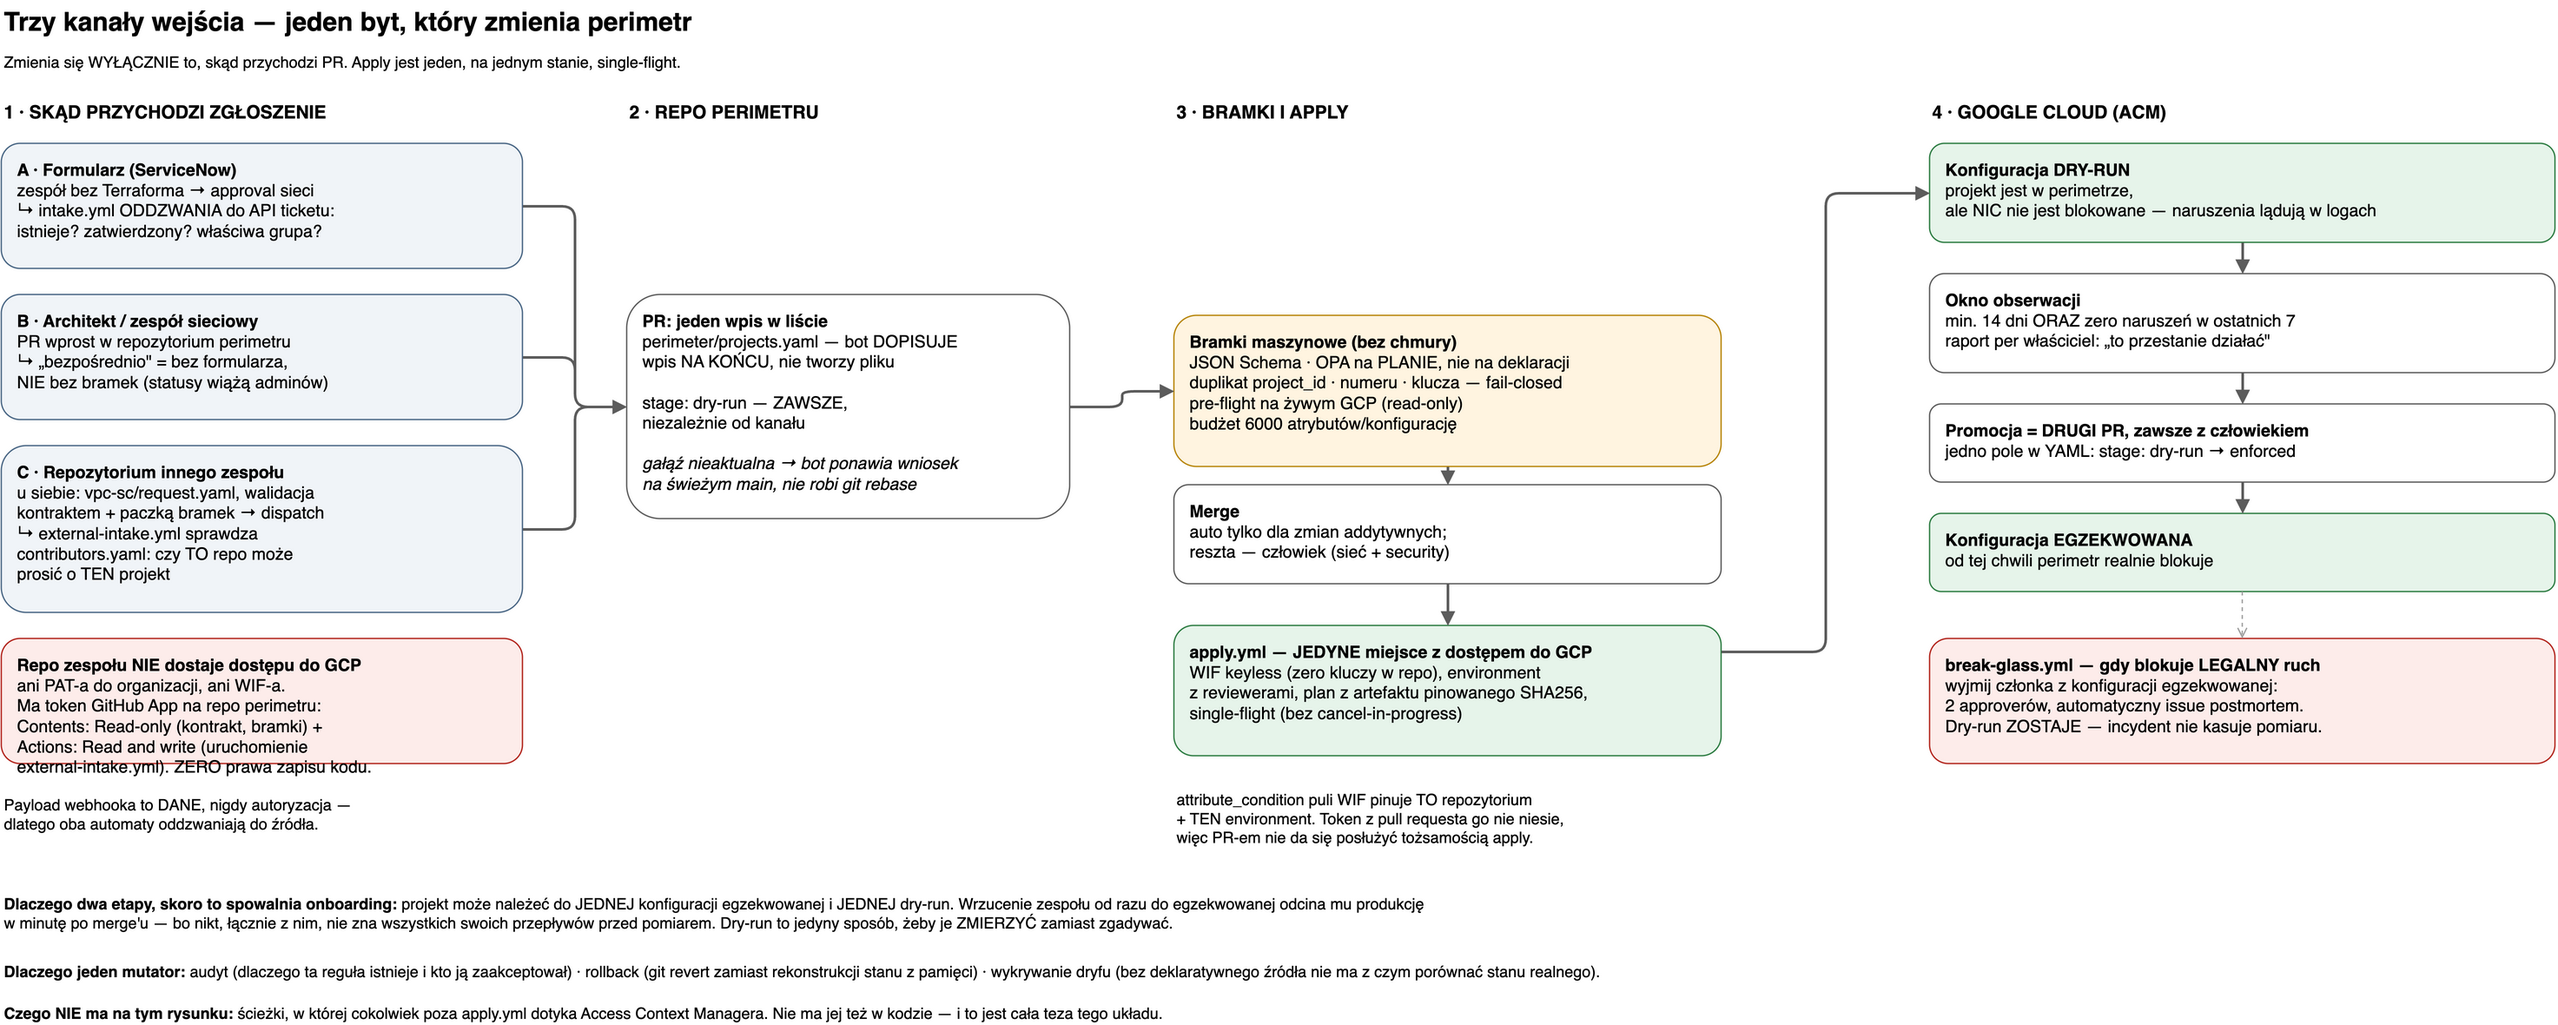
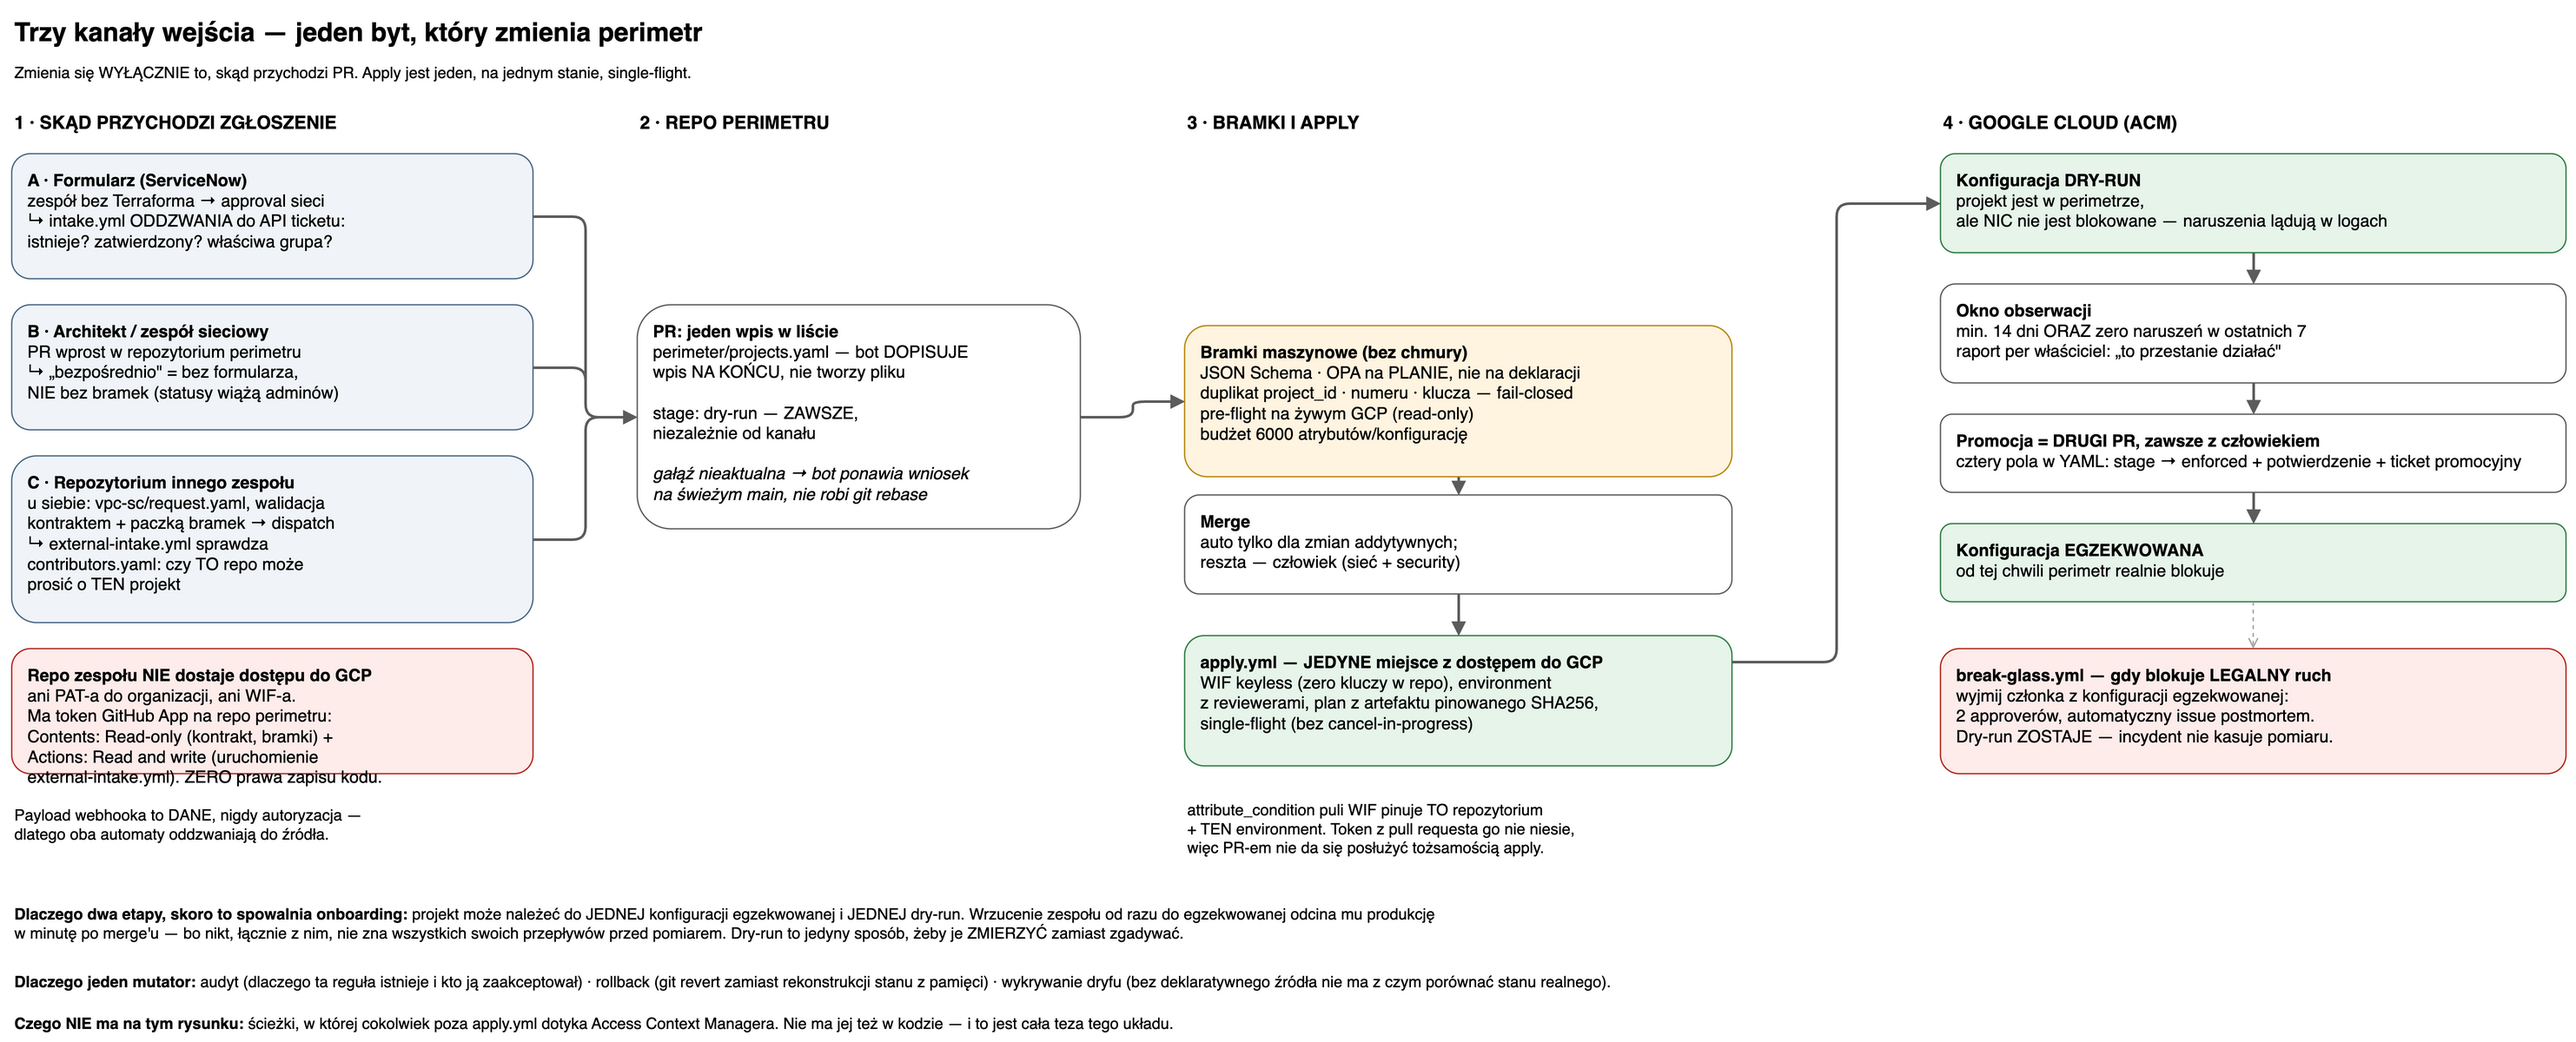
docs(promocja): dwa ostatnie miejsca, w których promocja to nadal „jedno pole"
DEC-58 poprawiło §A krok 3, ale to samo zdanie stało jeszcze w dwóch miejscach —
i oba są tam, gdzie czytelnik trafia PIERWSZY, zanim dojdzie do procedury:

* §„Czego NIE robić: `perimeters dry-run enforce`" — zdanie kontrastujące naszą
  promocję z komendą Google mówiło „jedno pole `stage` w jednym pliku". Kontrast
  zostaje (per członek kontra cały perimetr naraz), liczba pól przestaje kłamać;
* diagram D6 („najprostszy obraz całości") — kafelek „Promocja = DRUGI PR"
  niósł „jedno pole w YAML: stage: dry-run → enforced".

Znalezione skanem `grep "dwa pola\|jedno pole"` po całym drzewie docs/ i AGENTS.md
PO scaleniu DEC-58 — bo poprawka jednego zdania nie mówi nic o pozostałych kopiach
tego samego twierdzenia. AGENTS.md czysty (jego tabela niezmienników mówi o tym,
KTO wpisuje pola, nie ile ich jest).

PNG odtworzony z `.drawio` (`drawio --export --scale 1.5 --border 8`) i obejrzany:
2965×1200 wobec 2945×1180 poprzednio, układ bez zmian, zmieniony wyłącznie tekst
kafelka.

Refs #2115

diff --git a/docs/3-runbook-promocja-i-break-glass.md b/docs/3-runbook-promocja-i-break-glass.md
@@ -381,7 +381,7 @@ przed sobą dwa tygodnie okna obserwacji. Jedno wywołanie promuje więc trzydzi
 których przepływów nikt nie zdążył zmierzyć. Skutek: masowe odcięcie ruchu bez ani jednego PR-a, którego
 dałoby się zrewertować, bo w gicie nic się nie zmieniło.
 
-Nasza promocja jest **per członek** i wygląda inaczej: jedno pole `stage` w jednym pliku, PR, bramki, apply.
+Nasza promocja jest **per członek** i wygląda inaczej: cztery pola w jednym pliku (`stage`, `unmeasured_peers_ack` oraz `change_ref`/`approved_by` wniosku promocyjnego — DEC-58), PR, bramki, apply.
 Terraform dokłada wtedy pojedynczy zasób do konfiguracji egzekwowanej i nie rusza pozostałych.
 
 Guard `no-dry-run-commit` w `validate.yml` pilnuje, żeby ta komenda nie trafiła do żadnego workflow ani
